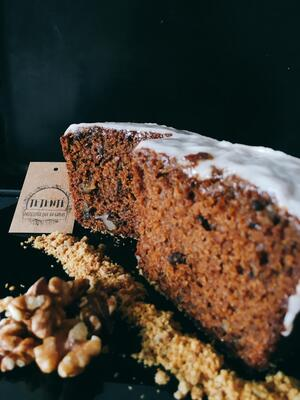
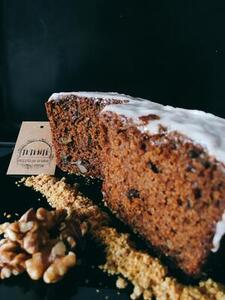
achico tamaño img.

diff --git a/pages/eventos.html b/pages/eventos.html
@@ -58,13 +58,13 @@
                 <div id="carouselExampleControls" class="carousel slide" data-bs-ride="carousel">
                     <div class="carousel-inner">
                     <div class="carousel-item active">
-                        <img src="../assets/BOX1.jpeg" class="d-block w-100 bordesRedondeados" alt="imagen producto">
+                        <img src="../assets/BOX1.jpeg" class="bordesRedondeados d-block w-100 " alt="imagen producto">
                         </div>
                         <div class="carousel-item">
-                        <img src="../assets/BOX3.jpeg" class="d-block w-100 bordesRedondeados" alt="imagen producto">
+                        <img src="../assets/BOX3.jpeg" class="bordesRedondeados d-block w-100 " alt="imagen producto">
                         </div>
                         <div class="carousel-item">
-                        <img src="../assets/BOX2.jpeg" class="d-block w-100 bordesRedondeados" alt="imagen producto">
+                        <img src="../assets/BOX2.jpeg" class="bordesRedondeados d-block w-100 " alt="imagen producto">
                         </div>
                     </div>
                     <button class="carousel-control-prev" type="button" data-bs-target="#carouselExampleControls" data-bs-slide="prev">
